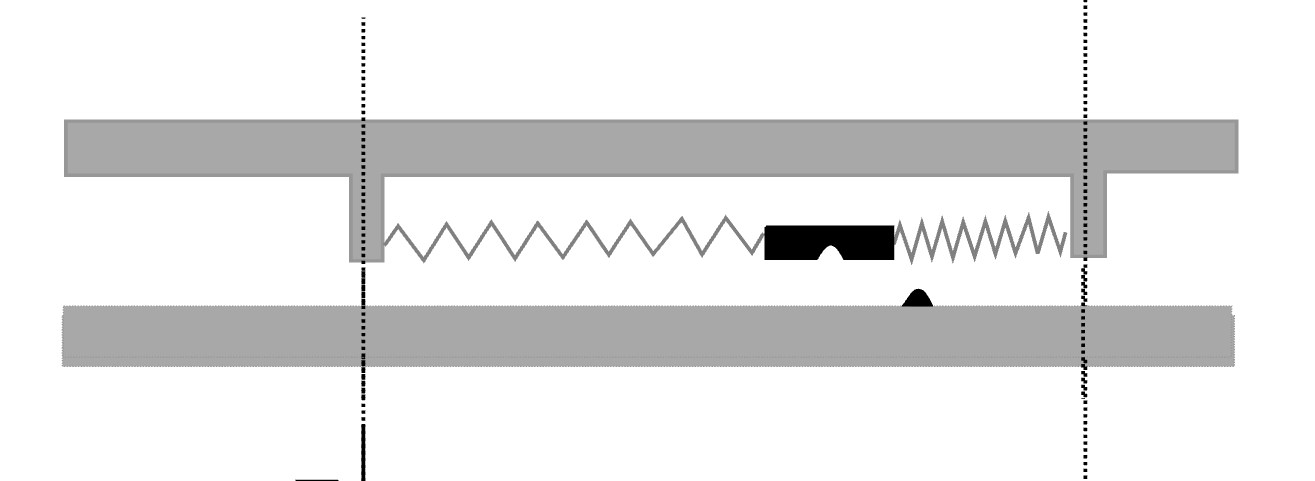
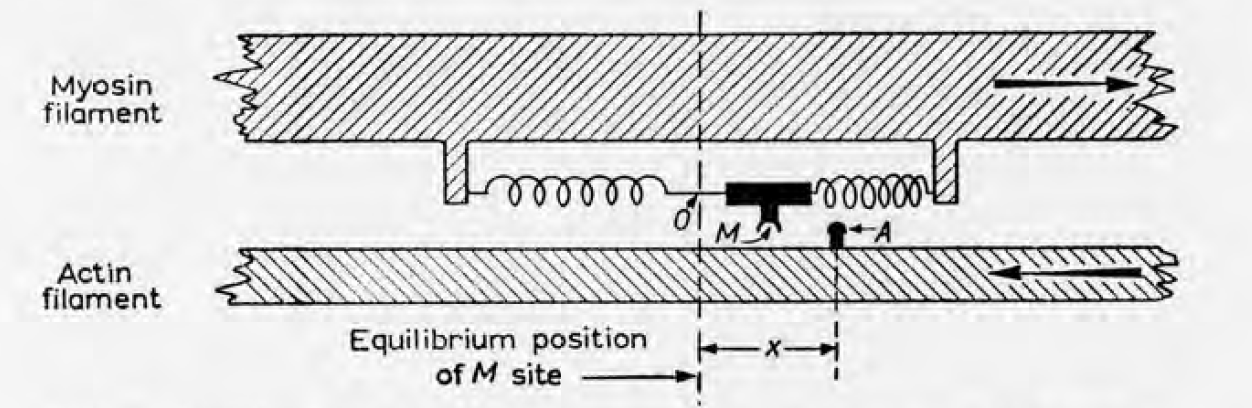
Added some pictures and updated readme

diff --git a/S5 Mechanistic muscle models/README.md b/S5 Mechanistic muscle models/README.md
@@ -12,12 +12,26 @@ Energy is required (from ATP) for crossbridge detachment.
 
 Animation from [Vale & Milligan (2000)](https://doi.org/10.1126/science.288.5463.88)
 
-Huxley (1957) formulated a simple model of crossbridge cycling, in which crossbridges can be either attached or detached.
-The model tracks the proportion of attached crossbridge as a function of both crossbridge strain and time. 
+Andrew Huxley (1957) formulated a simple mechanistic model of crossbridge cycling, in which crossbridges can be either attached or detached. The model tracks the proportion of attached crossbridge as a function of both crossbridge strain and time. 
 
 ![picture](Huxley_model.png)
 
-Drawing adapted from [Huxley (1957)](https://pubmed.ncbi.nlm.nih.gov/13485191/)
+Huxley formulated crossbridge attachment (f) and detachment (g) rate functions that depended on crossbridge strain x, parameterized by rate constants. The piece-wise linear formulation of the rate functions was simple, yet sufficient to predict A.V. Hill's force-velocity relation.
+
+![picture](Huxley_rates.png)
+
+The graph below shows the agreement between Hill's force-velocity relation (line) and the force-velocity relation produced by Huxley's crossbridge model (circles)
+
+![picture](Huxley_force_velocity.png)
+
+ The three figures above are from [Huxley (1957)](https://pubmed.ncbi.nlm.nih.gov/13485191/).
+
+ In this tutorial, you will learn how:
+- Hill's force-velocity relation arises from Huxley's mechanistic crossbridge model
+- Hill-type force-velocity parameters (e.g. vmax, curvature) relate to Huxley's crossbridge rate constants
+- Approximating Huxley's crossbridge model affects the relation between rate constants and force-velocity
+- Mechanistic crossbridge models can be interfaced with elastic tendon
+- Force transients resulting from isokinetic joint rotations differ between Hill-type and crossbridge models
 
 ## Scripts
 - **S5_main.m**: standalone script of this tutorial.
